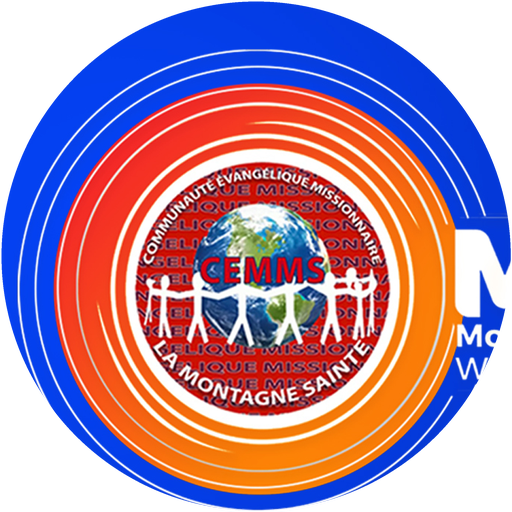
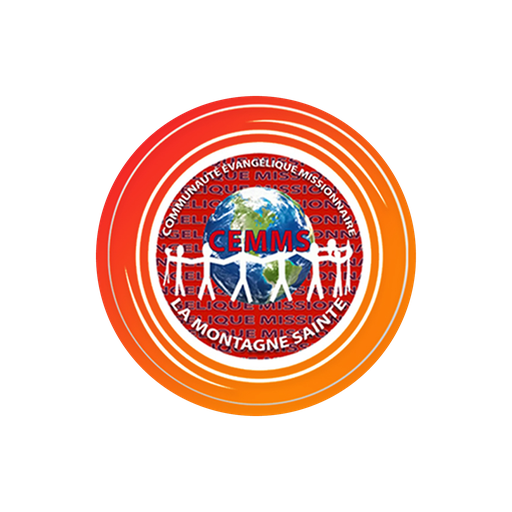
Regenerate the hero clip: emblem only, continuous loop
The first clip animated the whole logo card, so the church name, the vision
and mission lines and the verse references all moved in the hero behind the
page's own headline. Replaces it with a clip of the emblem alone.

Rebuilds the emblem source at a tighter radius. The previous circular crop
reached past the disc and caught a sliver of the MSW wordmark, which was
visible in the header mark and the favicons; the decorative concentric rings
are now redrawn cleanly rather than cropped from the card. The video source
frame places that emblem on a brand-blue field with a warm halo and no
lettering of any kind.

The new clip holds a locked-off camera and runs every motion at a constant
speed, so it loops back on itself without a seam: the rings turn continuously,
the globe keeps rotating, light breathes out from behind the emblem, and dust
rises through the air. It never slows to a stop.

Playback is continuous to match. The clip loops natively, restarts itself if
it ever stalls or ends, and no longer resumes on tab focus if the visitor
pressed pause. The poster is now the exact first frame of the clip, so there
is no jump when playback begins.

Scales the video inside its frame so the emblem reads at hero size, and
rebalances the hero columns so the headline holds two lines.

Claude-Session: https://claude.ai/code/session_01A1HrvdJbyXyyXAZHAHE9Hs

diff --git a/holy-mountain/assets/css/site.css b/holy-mountain/assets/css/site.css
@@ -195,7 +195,7 @@ section[id]{scroll-margin-top:104px}
 @keyframes float2{to{transform:translate3d(5vw,-3vh,0) scale(1.08)}}
 
 .hero__grid{
-  position:relative; z-index:2; display:grid; grid-template-columns:1fr 1.06fr;
+  position:relative; z-index:2; display:grid; grid-template-columns:1.08fr .92fr;
   gap:clamp(34px,5vw,72px); align-items:center; width:100%;
 }
 .hero__eyebrow{
@@ -207,7 +207,7 @@ section[id]{scroll-margin-top:104px}
 .hero__dot{width:7px; height:7px; border-radius:50%; background:var(--flame-400); box-shadow:0 0 0 4px rgba(251,139,30,.25)}
 .hero h1{
   font-family:var(--display); text-transform:uppercase; margin-top:24px;
-  font-size:clamp(36px, 4.5vw, 66px); line-height:.94; letter-spacing:-.005em; text-wrap:balance;
+  font-size:clamp(34px, 4.1vw, 60px); line-height:.94; letter-spacing:-.005em; text-wrap:balance;
 }
 .hero h1 .l2{
   display:block;
@@ -230,7 +230,9 @@ section[id]{scroll-margin-top:104px}
   box-shadow:0 30px 90px rgba(0,0,0,.55), 0 0 0 1px rgba(255,255,255,.05) inset,
              0 0 120px rgba(242,96,15,.18);
 }
-.hero__frame video,.hero__frame img{width:100%; height:100%; object-fit:cover}
+/* The clip is a small emblem on a wide field: scale it up inside the frame
+   so the logo reads at hero size. The gradient edges crop away harmlessly. */
+.hero__frame video,.hero__frame img{width:100%; height:100%; object-fit:cover; transform:scale(1.34)}
 .hero__frame::after{
   content:""; position:absolute; inset:0; pointer-events:none;
   background:linear-gradient(to top, rgba(3,9,32,.42), transparent 42%);

diff --git a/holy-mountain/assets/js/site.js b/holy-mountain/assets/js/site.js
@@ -231,10 +231,18 @@ function initVideo() {
   if (reduced) { v.pause(); v.removeAttribute('autoplay'); }
   else {
     play();
-    document.addEventListener('visibilitychange', () => { document.hidden ? v.pause() : play(); });
+    // Pause off-screen to save battery, resume on return — unless the visitor paused it.
+    document.addEventListener('visibilitychange', () => {
+      if (document.hidden) v.pause();
+      else if (!v.dataset.userPaused) play();
+    });
     ['click', 'touchstart', 'keydown'].forEach(ev =>
       document.addEventListener(ev, () => { if (v.paused && !v.dataset.userPaused) play(); }, { once: true, passive: true }));
   }
+  // The animation is meant to run continuously: restart it if it ever stalls or ends.
+  ['ended', 'stalled', 'suspend'].forEach(ev =>
+    v.addEventListener(ev, () => { if (!v.dataset.userPaused && !reduced && v.paused) play(); }));
+
   if (!btn) return;
   btn.addEventListener('click', () => {
     if (v.paused) { v.dataset.userPaused = ''; delete v.dataset.userPaused; play(); btn.setAttribute('aria-label', 'Pause background animation'); }

diff --git a/holy-mountain/index.html b/holy-mountain/index.html
@@ -108,9 +108,9 @@
 
     <figure class="hero__frame">
       <video id="heroVideo" autoplay muted loop playsinline preload="metadata"
-             poster="assets/img/hero-poster.jpg" aria-label="Animated emblem of Holy Mountain Washington Church">
+             poster="assets/img/emblem-frame.jpg" aria-label="The emblem of Holy Mountain Washington Church, turning continuously">
         <source src="assets/clips/msw-logo-8s.mp4" type="video/mp4">
-        <img src="assets/img/hero-poster.jpg" alt="Emblem of Holy Mountain Washington Church on a deep blue background">
+        <img src="assets/img/emblem-frame.jpg" alt="Emblem of Holy Mountain Washington Church on a deep blue background">
       </video>
       <button class="hero__sound" id="motionToggle" type="button" aria-label="Pause the animation" title="Pause the animation">
         <svg viewBox="0 0 24 24" fill="currentColor" width="16" height="16" aria-hidden="true"><path d="M8 5h3v14H8zm5 0h3v14h-3z"/></svg>

diff --git a/holy-mountain/README.md b/holy-mountain/README.md
@@ -35,10 +35,18 @@ between the `▼▼ EDIT THIS BLOCK ▼▼` markers. Nothing else needs to be to
 
 ## The animated logo
 
-The 8-second clip in the hero was generated on Higgsfield from the church's
-logo card: the emblem's rings turn and glow, banners of light move across the
-background as if wind were blowing through them, and dust and light rise
-through the frame while the lettering stays still.
+The 8-second clip in the hero was generated on Higgsfield from the emblem
+alone, with no lettering anywhere in the frame. The rings turn continuously at
+a constant speed, the globe keeps rotating, warm light breathes out from behind
+the emblem, waves of blue light drift across the background as if wind were
+moving through them, and dust rises through the air.
+
+The camera is locked off and every motion runs at an even speed, so the clip
+loops back on itself with no visible seam. It is set to loop natively in the
+browser and restarts itself if playback ever stalls, so the animation runs
+without stopping. The pause control in the corner of the frame is the only
+thing that halts it, and visitors whose system asks for reduced motion get the
+still frame instead.
 
 It is **not** committed to the repo. `netlify.toml` proxies it from our own
 domain, so the browser never contacts an external host:
@@ -50,7 +58,9 @@ domain, so the browser never contacts an external host:
 To stop depending on the CDN entirely, run `./fetch-video.sh` from this folder
 and commit the downloaded file. The proxy rule uses `force = false`, so a local
 file automatically wins over the redirect. The `<video>` tag falls back to
-`assets/img/hero-poster.jpg` if the clip cannot load, so the page never breaks.
+`assets/img/emblem-frame.jpg` if the clip cannot load, so the page never breaks.
+That file is also the exact first frame of the clip, so the poster and the video
+line up with no visible jump when playback starts.
 
 ## Languages
 
